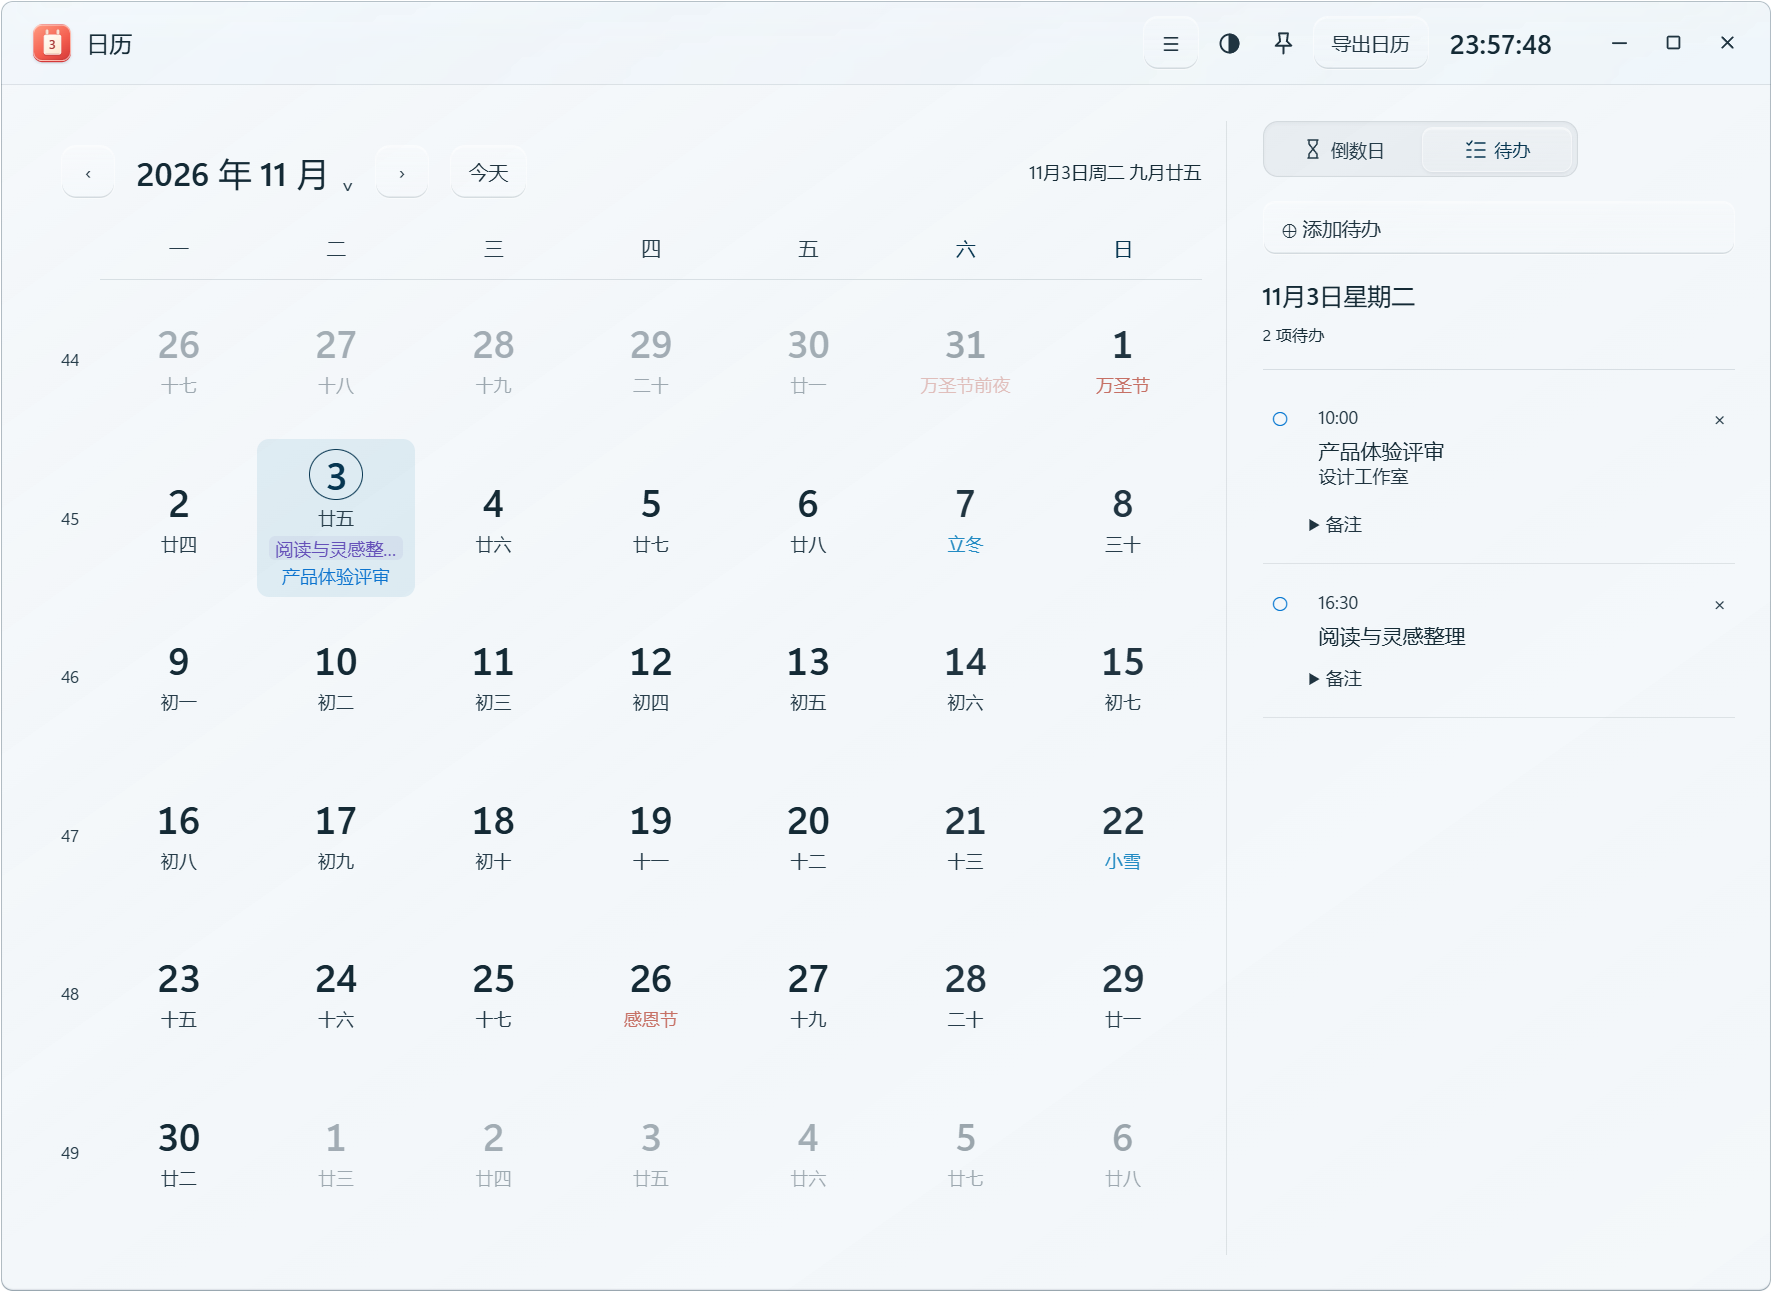
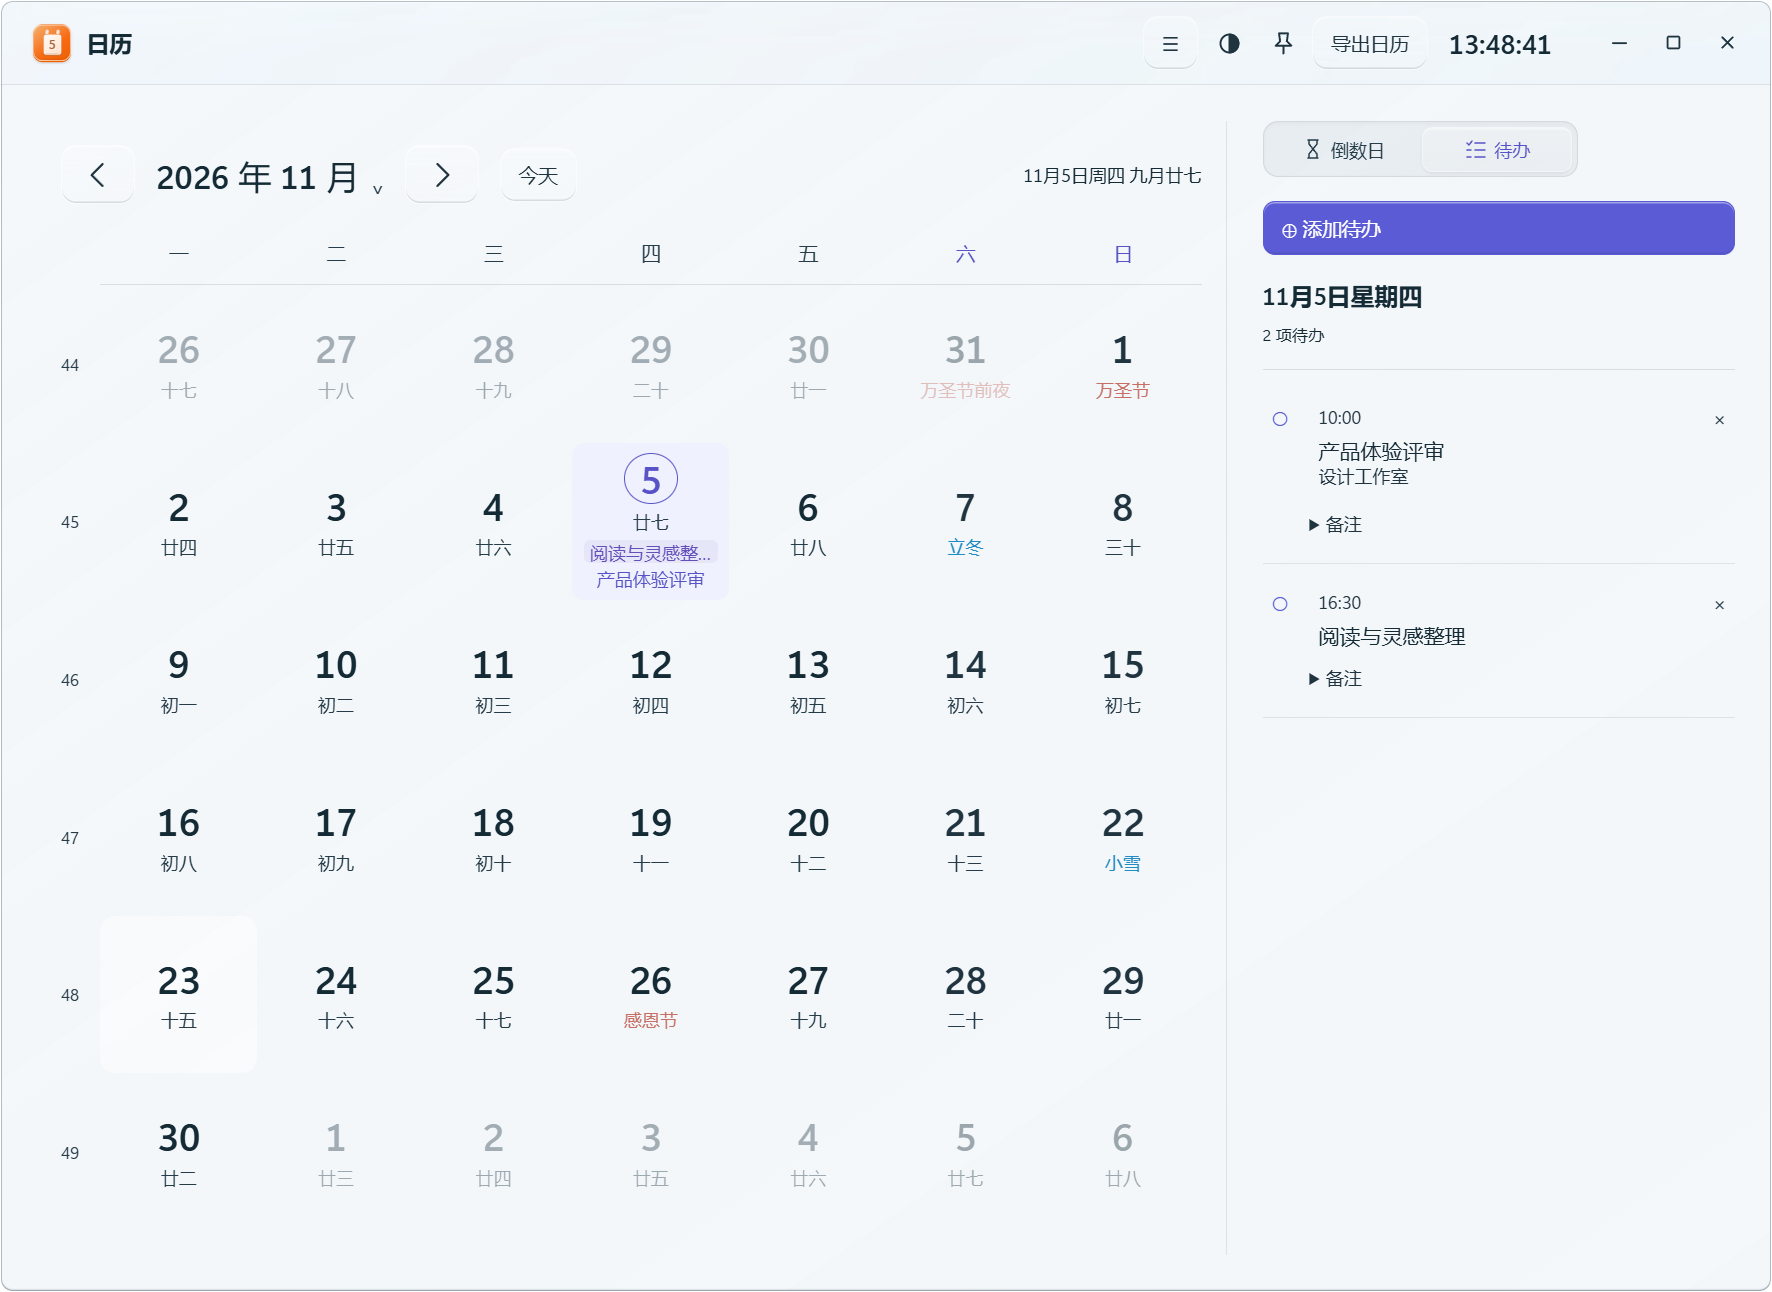
docs: present Suira 0.2.33 visual foundation

diff --git a/README.md b/README.md
@@ -3,7 +3,7 @@
   <h1>随序 SUIRA</h1>
   <p><strong>顺手接住，让工作继续。</strong></p>
   <p>一个快捷键，接住桌面上的截图、文字与灵感。<br>从收集、整理到下一步，让常用工具自然衔接。</p>
-  <p>Windows 11 x64 · 本地优先 · 当前版本 0.2.32</p>
+  <p>Windows 11 x64 · 本地优先 · 当前版本 0.2.33</p>
   <p><a href="https://github.com/huihui200739/suira-updates/releases/latest">下载最新版本</a> · <a href="#开始使用">开始使用</a> · <a href="CHANGELOG.md">版本更新</a> · <a href="https://github.com/huihui200739/suira-updates/issues">反馈问题</a></p>
 </div>
 
@@ -49,9 +49,11 @@
 
 ## 开始使用
 
-支持 **Windows 11 x64**，当前正式版 **0.2.32**。从 [最新版本](https://github.com/huihui200739/suira-updates/releases/latest) 下载 `Suira-0.2.32-x64.exe` 并安装；已有安装版可在悬浮板三点菜单选择 **检查更新 → 下载更新 → 保存草稿并重启更新**。覆盖更新保留本机内容、键位和设置。
+支持 **Windows 11 x64**，当前正式版 **0.2.33**。从 [最新版本](https://github.com/huihui200739/suira-updates/releases/latest) 下载 `Suira-0.2.33-x64.exe` 并安装；已有安装版可在悬浮板三点菜单选择 **检查更新 → 下载更新 → 保存草稿并重启更新**。覆盖更新保留本机内容、键位和设置。
 
 从托盘双击打开面板。全局快捷键默认关闭，可在设置中主动开启并调整冲突键位。
+
+界面字体：MiSans（小米），原版字体用于主工作台；[MiSans 字体许可协议](https://hyperos.mi.com/font-download/MiSans%E5%AD%97%E4%BD%93%E7%9F%A5%E8%AF%86%E4%BA%A7%E6%9D%83%E8%AE%B8%E5%8F%AF%E5%8D%8F%E8%AE%AE.pdf)。
 
 | 开启后的预设快捷键 | 功能 |
 | --- | --- |

diff --git a/CHANGELOG.md b/CHANGELOG.md
@@ -1,5 +1,14 @@
 # 更新记录
 
+## 0.2.33 · 2026-11-05
+
+- 强调色统一为 Radix Colors 3.0 Iris 明暗十二阶，主按钮使用 Iris 实色与白字，焦点环和选中态统一；工作台保留石墨导航栏。
+- 组件颜色集中到主题语义变量，覆盖玻璃、面板、工具窗、截图及 Markdown / 导出；新增 token-lint 并纳入 npm test。
+- 附带小米原版 MiSans VF 与字体协议，关于页和 README 增加署名与协议链接；按内存门槛只在主工作台加载，其他窗口继续使用系统字体。
+- 正文、强调、标题和页面大标题分别使用 400 / 500 / 600 / 650 字重，数字采用 tabular-nums，移除 Bahnschrift。
+- 钉图、翻月、Markdown 菜单和工作台导航使用精选 Fluent 24px Regular 图标；彩色工具图标统一左上光源、145° 渐变与类别色。
+- 补充深浅主题实际配色、字体加载范围、字体原版哈希及安装包内字节校验，修正面板性能验证以覆盖当前的预热复用策略。
+
 ## 0.2.32 · 2026-11-05
 
 - 新增截图翻译：全局 Alt+B 或面板 B 框选后自动识别并翻译；截图工具栏也可点击“翻译”或按 Y。
